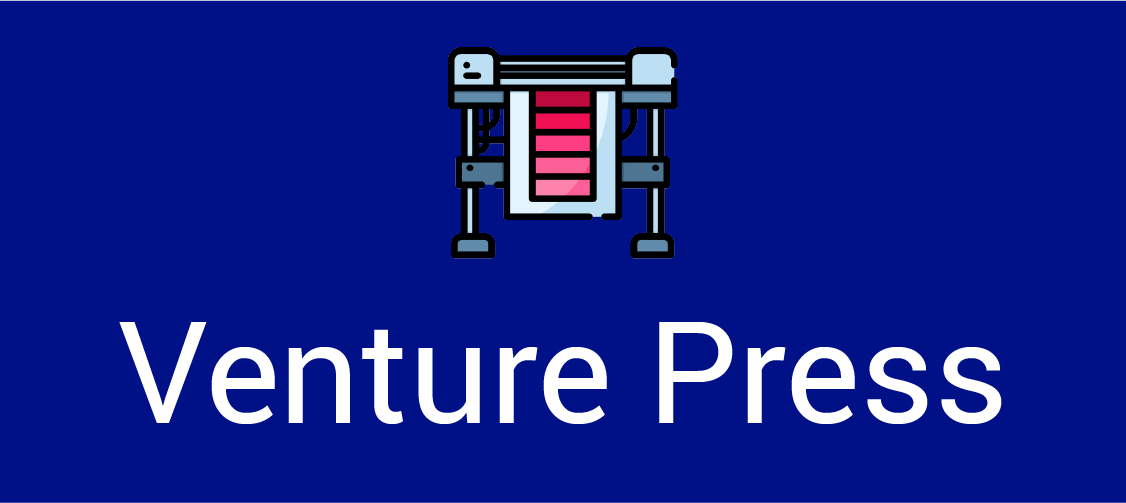
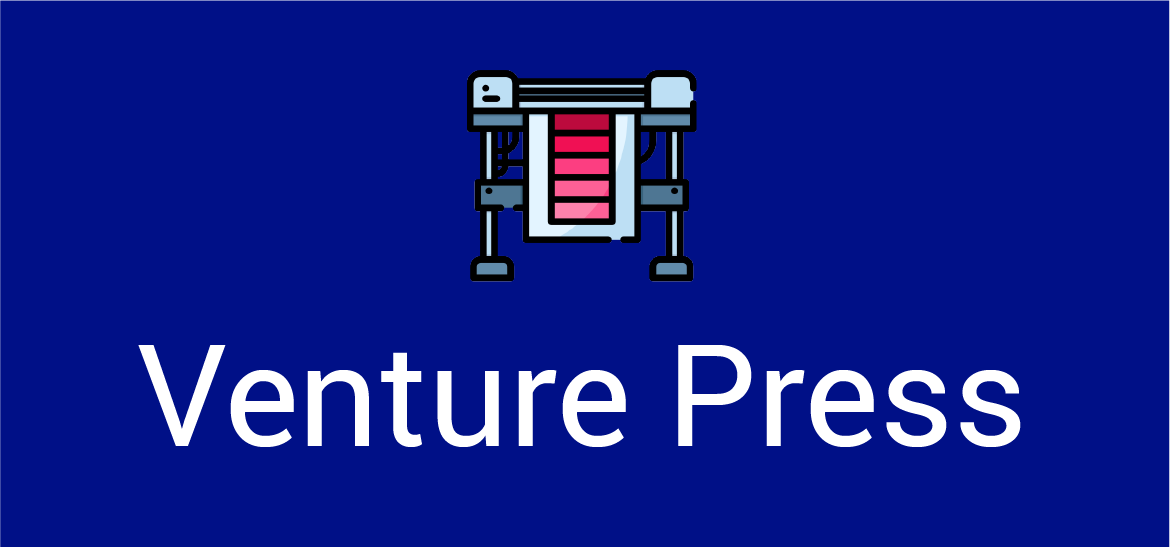
Add new downsampled readme header image, tidy up comments and structure in index and cart templates

Changed region(s): [[0.0933, 0.6262, 0.9014, 0.8648], [0.373, 0.0895, 0.6217, 0.507], [0.0, 0.0, 1.0, 1.0]]

diff --git a/home/templates/home/index.html b/home/templates/home/index.html
@@ -1,20 +1,28 @@
 {% extends "base.html" %}
+
+<!-- Load static files -->
 {% load static %}
 
+<!-- Add corresponding page suffix to base page title -->
 {% block title_suffix %}- Home{% endblock %}
 
+<!-- Page header -->
 {% block content %}
     <div class="container h-100">
         <div class="row h-100">
             <div class="col-7 col-md-6 my-auto">
+                <!-- Hero image heading -->
                 <h1 class="display-4 text-black">
                     Excellence In Print
                 </h1>
+                <!-- Hero image text -->
                 <p>With over 50 years in the industry, our standards are high and our services are refined and fast.</p>
                 <p>Check out the services we offer to buy online, and if you can't find what you're looking for then feel free to contact us for bespoke jobs.</p>
                 <div class="my-5">
                     <h4>
+                        <!-- Print Services button directing to services view -->
                         <a href="{% url 'services' %}" class="btn btn-lg">Print Services</a>
+                        <!-- Contact Us button directing to contact view -->
                         <a href="{% url 'contact' %}" class="btn btn-lg">Contact Us</a>
                     </h4>
                 </div>

diff --git a/cart/templates/cart/cart.html b/cart/templates/cart/cart.html
@@ -84,7 +84,7 @@
                                 <div class="form-group">
                                     <div class="input-group justify-content-center">
                                         <div class="input-group-prepend">
-                                            <!-- Button to decrement quantity in steps of 10-->
+                                            <!-- Button to decrement quantity in steps of 10 -->
                                             <button class="decrement-qty btn btn-sm" data-item_id="{{ item.item_id }}"
                                                 id="decrement-qty_{{ item.item_id }}">
                                                 <span>
